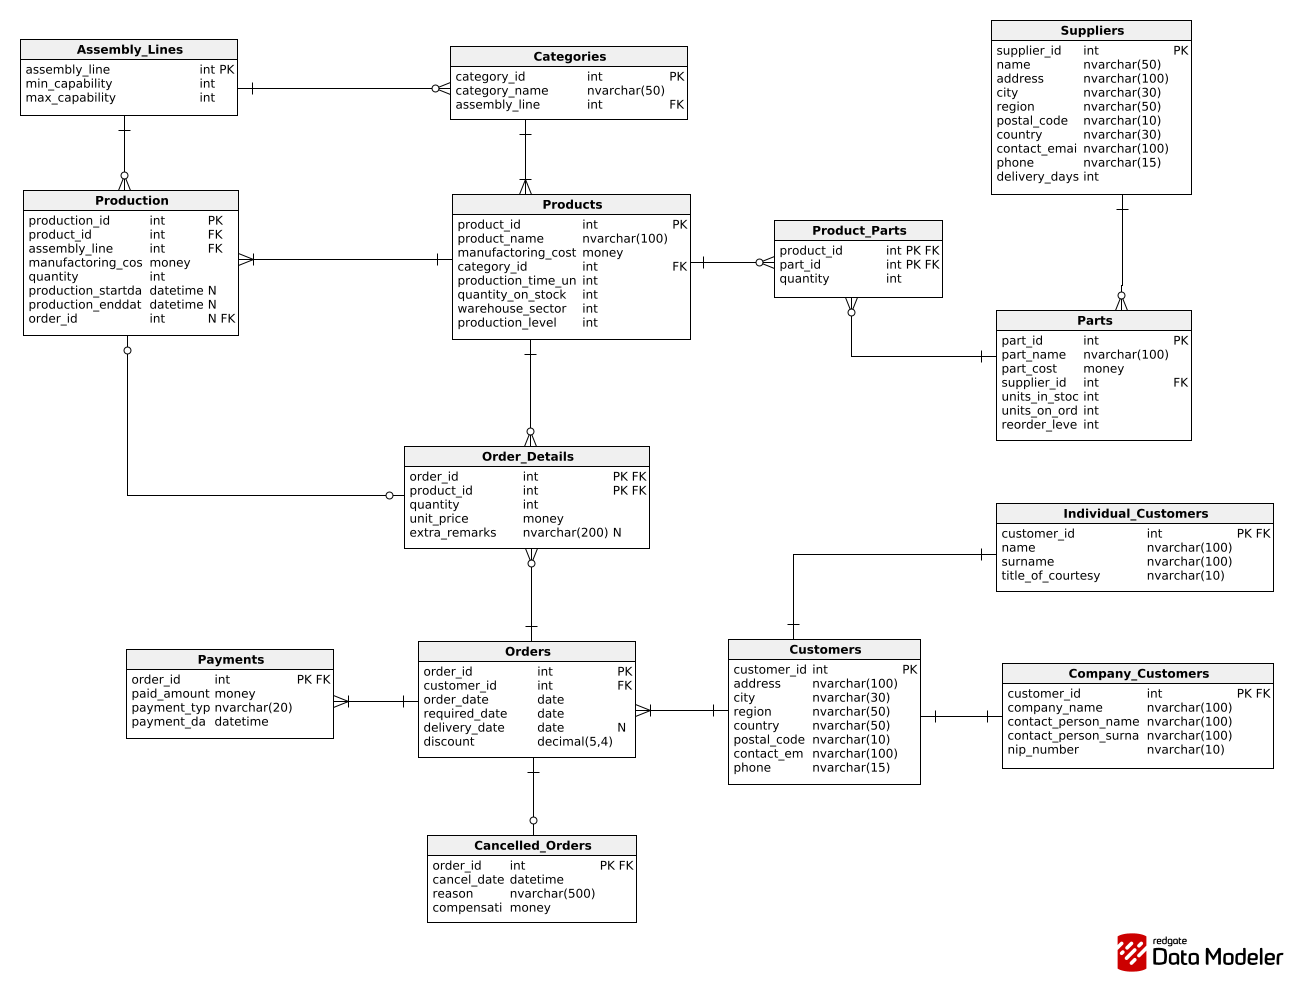
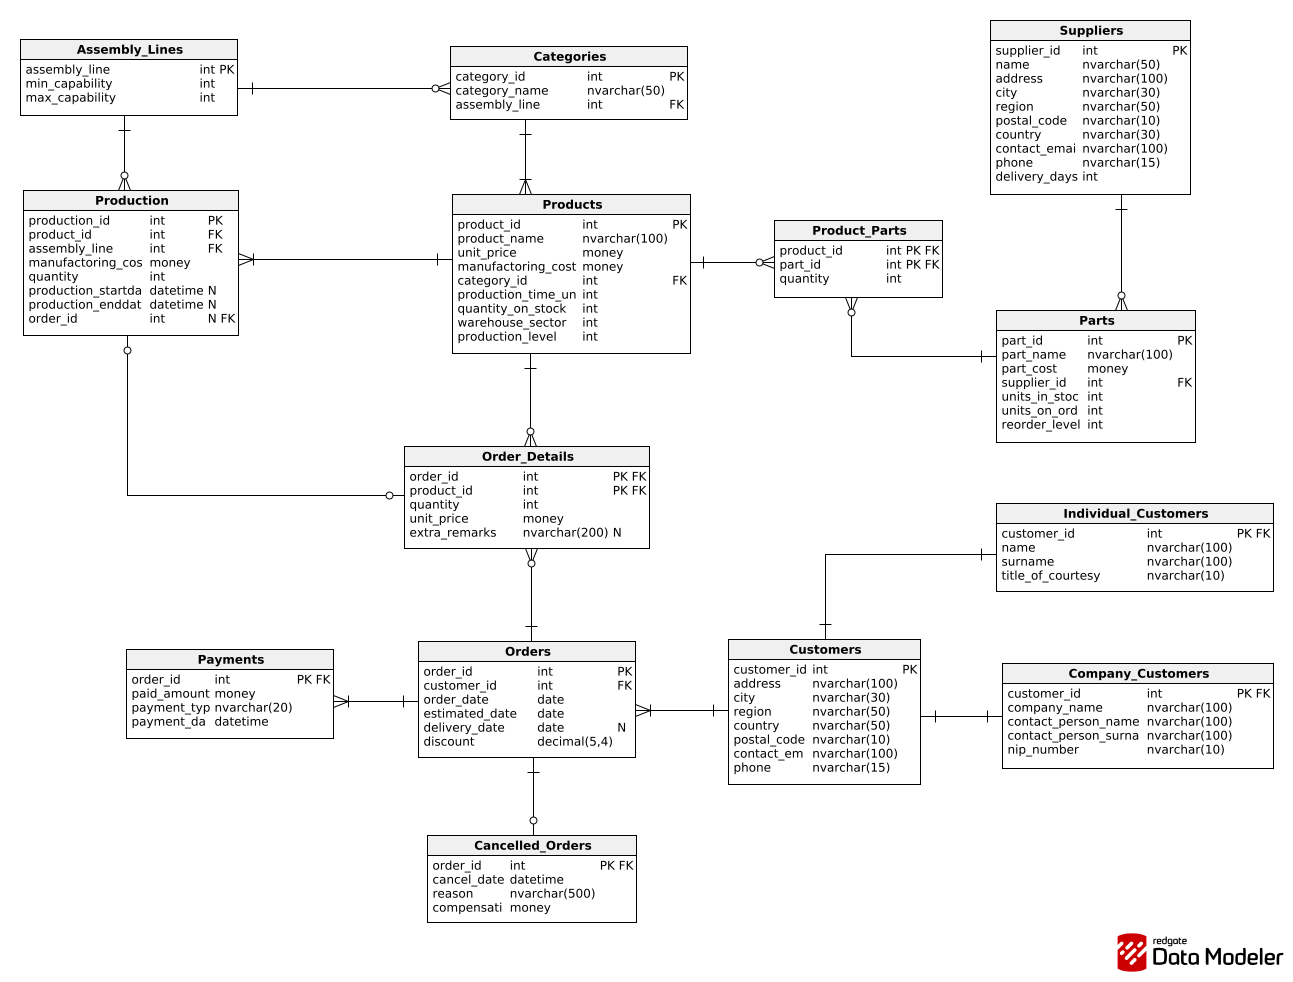
update report

diff --git a/pbd_pt945_zesp_18_raport2.md b/pbd_pt945_zesp_18_raport2.md
@@ -29,10 +29,14 @@ Klient biznesowy specjalizuje się w produkcji mebli biurowych, w szczególnośc
 ### Założenia
 
 - konkretna część jest dostarczana przez jednego dostawcę.
+- koszt pracy linii produkcyjnych jest niezależny od liczby produktów.
+- umowy z dostawcami są podpisywane z góry na cały rok.
 - sklep nie odpowiada za wysyłkę towarów.
 - produkty są składane na poszczególnych zespołach linii produkcyjnych, w zależności od kategorii, do której należą. Na danym zespole linii produkcyjnych mogą być produkowane produkty z wielu kategorii.
 - zawarta jest informacja o maksymalnych mocach przerobowych firmy na konkretnym zestawie linii produkcyjnych.
 - na każdym zestawie linii produkcyjnych istnieje minimalny poziom produkcji.
+- sklep domawia części na magazyn, jeśli na magazynie jest mniej niż 10% docelowej wartości.
+- w przypadku braku części na zamówienie sklep domawia je w taki sposób, aby wciąż osiągać określony cel.
 - na podstawie aktualnych zamówień ustalana jest kolejka, na podstawie której produkowane są poszczególne produkty.
 - w przypadku braku zamówień sklep dąży do określonego poziomu danego produktu na magazynie.
 - klient może modyfikować swoje zamówienie:
@@ -55,11 +59,11 @@ Klient biznesowy specjalizuje się w produkcji mebli biurowych, w szczególnośc
 | --------------- | ----------- | ------ | ----------------------------------------------------- |
 | product_id      | int         | główny | Identyfikator produktu                                |
 | product_name    | nvarchar(100) |        | Nazwa produktu                                        |
-| manufactoring_cost      | money         |    | Koszt wyprodukowania jednej sztuki  
+| manufactoring_cost      | money         |    | Koszt wyprodukowania jednej sztuki (włącznie z częściami)  
 | category_id     | int         | obcy   | Identyfikator kategorii                               |
 | production_time_unit | int         |        | Jednostka określająca całkowitą liczbę jednostek czasu, w której produkowany jest dany produkt. 10 jednostek to jedna roboczogodzina na taśmie produkcyjnej. |
 | quantity_on_stock | int |              | Liczba sztuk na magazynie                                                            |
-| warehousse_sector            | int |              | Sektor w magazynie, przy którym znajduje się produkt                                 |
+| warehouse_sector            | int |              | Sektor w magazynie, przy którym znajduje się produkt                                 |
 | production_level  | int |              | Liczba sztuk produktu do której dąży się w przypadku mniejszych obrotów na produkcji |
 
 ### ProductParts
@@ -120,7 +124,7 @@ Klient biznesowy specjalizuje się w produkcji mebli biurowych, w szczególnośc
 | production_id           | int      | główny | Identyfikator produkcji  
 | product_id           | int      | główny, obcy | Identyfikator produktu                         |
 | assembly_line        | int      | główny, obcy | Numer taśmy produkcyjnej                       |                       |
-| manufactoring_cost      | money         |    | Koszt wyprodukowania jednej sztuki  
+| manufactoring_cost      | money         |    | Koszt wyprodukowania jednej sztuki (włącznie z częściami - koszt ten może się zmieniać z biegiem czasu)  
 | quantity             | int      |              | Liczba wyprodukowanego produktu w danej partii |
 | production_startdate | datetime |              | Data rozpoczęcia produkcji                                |
 | production_enddate   | datetime |              | Data zakończenia produkcji                               |
@@ -132,7 +136,7 @@ Klient biznesowy specjalizuje się w produkcji mebli biurowych, w szczególnośc
 | order_id      | int           | główny | Identyfikator zamówienia                   |
 | customer_id   | int           | obcy   | Identyfikator klienta                      |
 | order_date    | date          |        | Data złożenia zamówienia                   |
-| required_date | date          |        | Zadeklarowana data dostarczenia zamówienia |
+| estimated_date | date          |        | Zadeklarowana data dostarczenia zamówienia |
 | delivery_date | date          |        | Rzeczywista data dostarczenia zamówienia   |
 | discount      | decimal(5,4) |        | Zniżka na całe zamówienie                  ||
 
